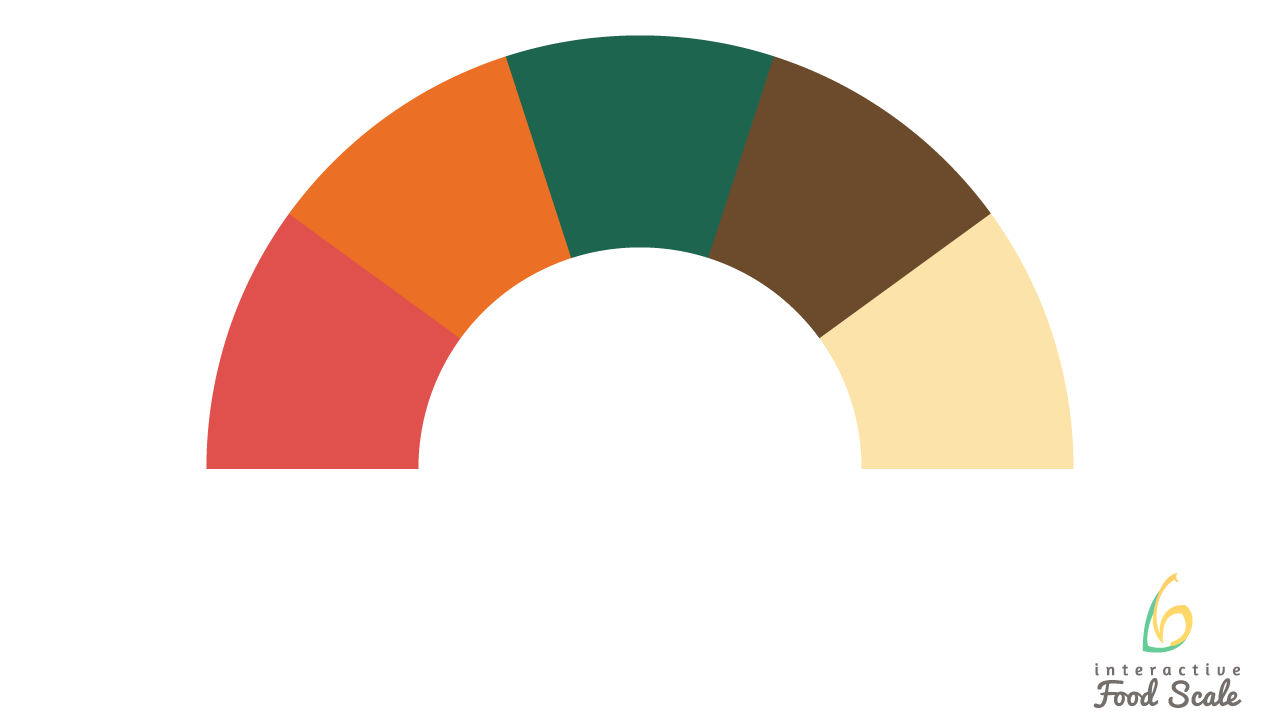
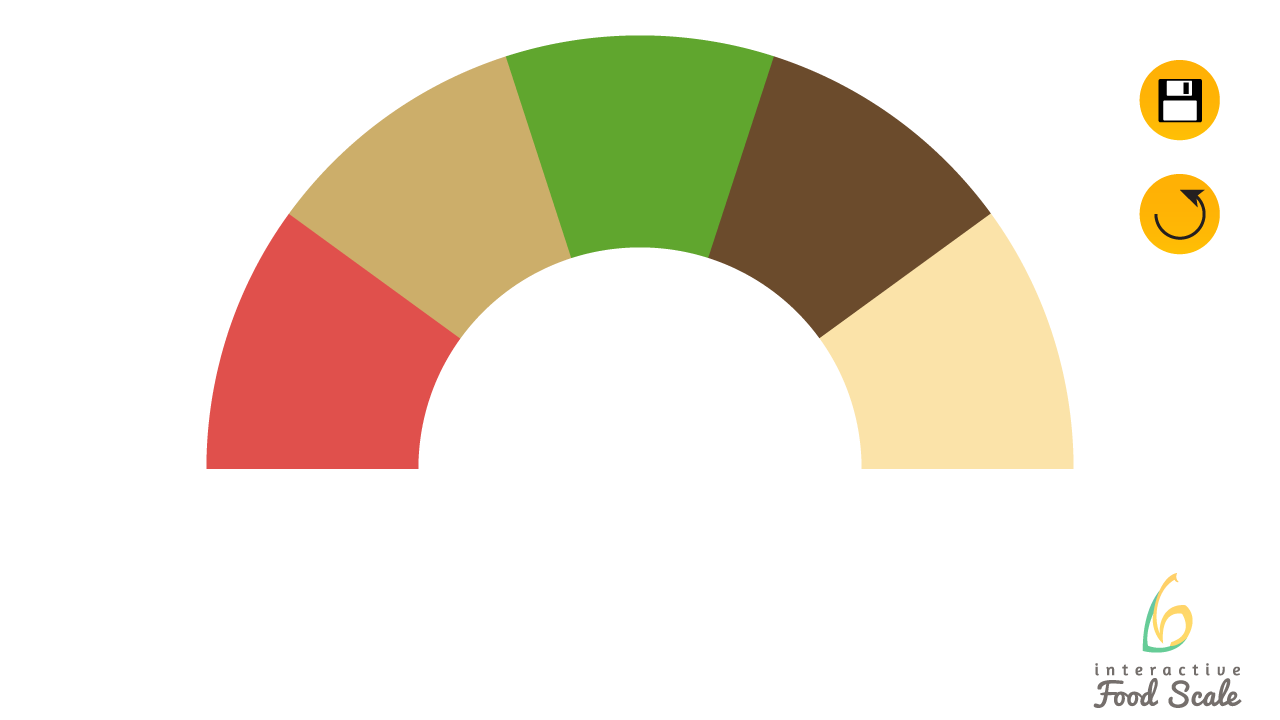
pruebas1

Changed region(s): [[0.2188, 0.0306, 0.625, 0.4583], [0.875, 0.0611, 0.9688, 0.2139], [0.875, 0.2444, 0.9688, 0.3667]]

diff --git a/src/diazPallares/Alimento.java b/src/diazPallares/Alimento.java
@@ -2,7 +2,7 @@ package diazPallares;
 
 import processing.core.PApplet;
 
-public class Alimento {
+public class Alimento {//CARTON REVERSO BLANCO
 	private PApplet app;
 	private int tipo;
 	private float pesoInicial, pesoFinal, peso, cal;
@@ -25,7 +25,7 @@ public class Alimento {
 			cal = pesoFinal*1.34f;
 			//poner condiciones de calorias
 			if(cal<70f){
-				app.fill(255,221,0);
+				app.fill(255);
 			}
 			if(cal>70f && cal<167.5f){
 				app.fill(0,175,100);
@@ -40,6 +40,10 @@ public class Alimento {
 			//amarillo app.fill(255,221,0);
 			//rojo app.fill(213,25,32);
 			app.ellipse(325, 368, 177, 177);
+			app.textSize(36);
+			app.fill(33);
+			app.text(pesoFinal+"g", 273, 360);
+			app.text((int)cal+" cal", 273, 400);
 			
 			break;
 		case 2:
@@ -47,7 +51,7 @@ public class Alimento {
 			cal = pesoFinal*1.5f;
 			//poner condiciones de calorias
 			if(cal<90f){
-				app.fill(255,221,0);
+				app.fill(255);
 			}
 			if(cal>90f && cal<180f){
 				app.fill(255,221,0);
@@ -56,13 +60,17 @@ public class Alimento {
 				app.fill(213,25,32);
 			}
 			app.ellipse(446, 202, 177, 177);
+			app.textSize(36);
+			app.fill(33);
+			app.text(pesoFinal+"g", 403, 190);
+			app.text((int)cal+" cal", 403, 230);
 			break;
 		case 3:
 			//ensalada 0.87 caloria x gramo
 			cal = pesoFinal*0.87f;
 			//poner condiciones de calorias
 			if(cal<59.3f){
-				app.fill(255,221,0);
+				app.fill(255);
 			}
 			if(cal>59.3f && cal<130f){
 				app.fill(0,175,100);
@@ -74,13 +82,17 @@ public class Alimento {
 				app.fill(213,25,32);
 			}
 			app.ellipse(640, 138, 177, 177);
+			app.textSize(36);
+			app.fill(33);
+			app.text(pesoFinal+"g", 592, 132);
+			app.text((int)cal+" cal", 592, 172);
 			break;
 		case 4:
 			//lenteja 3.36 caloria x gramo
 			cal = pesoFinal*3.36f;
 			//poner condiciones de calorias
 			if(cal<150f){
-				app.fill(255,221,0);
+				app.fill(255);
 			}
 			if(cal>150f && cal<201f){
 				app.fill(0,175,100);
@@ -92,25 +104,32 @@ public class Alimento {
 				app.fill(213,25,32);
 			}
 			app.ellipse(831, 202, 177, 177);
+			app.textSize(36);
+			app.fill(33);
+			app.text(pesoFinal+"g", 790, 190);
+			app.text((int)cal+" cal", 790, 230);
 			break;
 		case 5:
 			//arroz 3.54 caloria x gramo
 			cal = pesoFinal*3.54f;
 			//poner condiciones de calorias
 			if(cal<30f){
-				app.fill(255,221,0);
+				app.fill(255);
 			}
 			if(cal>30f && cal<70f){
 				app.fill(0,175,100);
 			}
-			if(cal>70f && cal<100f){
+			if(cal>70f && cal<140f){
 				app.fill(255,221,0);
 			}
-			if(cal>100f){
+			if(cal>140f){
 				app.fill(213,25,32);
 			}
 			app.ellipse(953, 368, 177, 177);
-			
+			app.textSize(36);
+			app.fill(33);
+			app.text(pesoFinal+"g", 910, 360);
+			app.text((int)cal+" cal", 910, 400);
 			break;			
 		}
 	}

diff --git a/src/diazPallares/Logica.java b/src/diazPallares/Logica.java
@@ -35,13 +35,20 @@ public class Logica {
 			//asigna el peso en los sensores al valor pesoInicial de Alimentos.
 		}
 	}
+	public void nuevoUsuario(){
+		interfaz.reiniciar();
+		escena = 0;
+	}
 
 	public void mousePressed(int mouseX, int mouseY) {
-		if(escena==0 && interfaz.usuario()){
+		if(mouseX>605 && mouseX<675 && mouseY>540 && mouseY<610 && escena==0 && interfaz.usuario()){
 			escena = 1;
 		}	
-		if(escena == 1){
+		if(mouseX>1139 && mouseX<1219 && mouseY>60 && mouseY<140 && escena == 1){
 			interfaz.guardarInfo();
+		}
+		if(mouseX>1139 && mouseX<1219 && mouseY>163 && mouseY<253 && escena == 1){
+			nuevoUsuario();
 		}
 	}
 }

diff --git a/src/diazPallares/Interfaz.java b/src/diazPallares/Interfaz.java
@@ -111,8 +111,10 @@ public class Interfaz {
 		guardar[9]="pesoEnPlato "+plato;
 		app.saveStrings("../data/"+hora+"-"+usuario+".txt", guardar);
 	}
-	public void setInicial(boolean b){
-		inicial=b;
+	public void reiniciar(){
+		inicial=true;
+		cp5.get(Textfield.class,"usuario").clear();
+		cp5.get(Textfield.class,"usuario").show();
 	}
 	public boolean usuario(){
 		usuario=cp5.get(Textfield.class,"usuario").getText();
